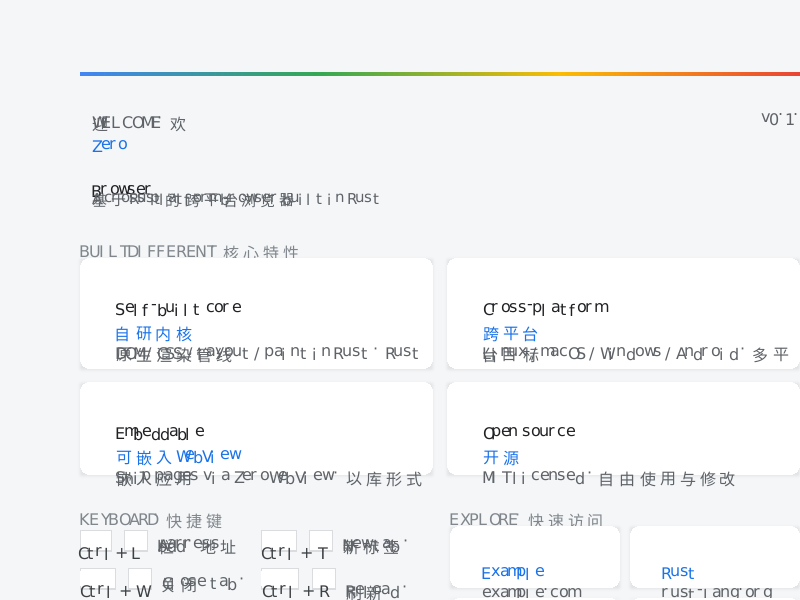
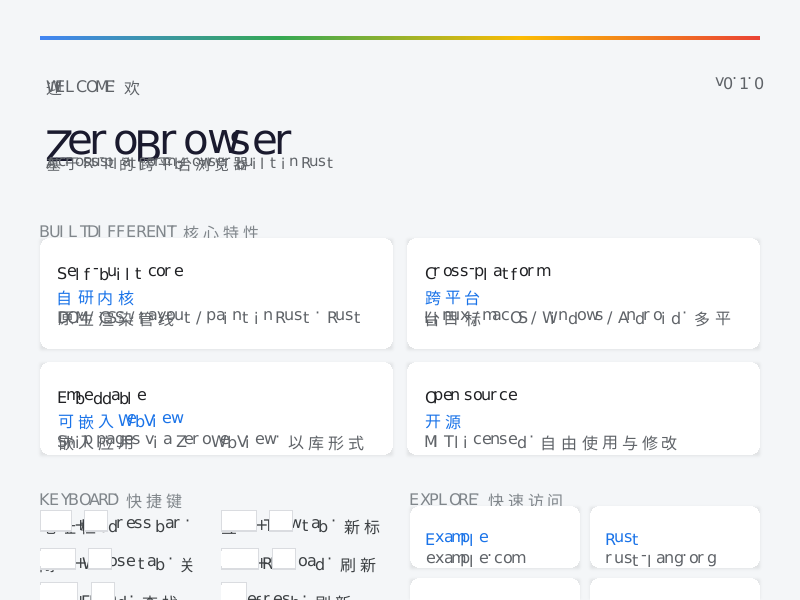
fix(layout-engine): R227 fix welcome 36px top offset (taffy location vs painter padding double-count)
taffy 0.7 `Layout::location` (stored into LayoutBox.x/y) is the child's
border-box offset relative to the PARENT's border box — it already includes
the parent's padding+border (see taffy `content_box_y = location.y + border +
padding`, compute/block.rs:404,486 first-child location.y = content_box_inset.top).

But ZeroWeb's painter (paint_node child_offset += padding+border), inline IFC,
and abspos threading all expect child coords relative to the parent's CONTENT
box. So taffy-positioned block/inline-block children had the parent's
padding+border counted TWICE — every padded/bordered ancestor shifted its
subtree by one extra inset. In welcome.html this cascaded to +36px
(.page pt 20 + .hero pt 16), pushing hero-accent to y=72 vs chromium y=36,
the #1 product-smoke lever located in R226.

Fix: in extract_layout, for HorizontalTb writing mode and non-abspos/fixed
children, rebase each taffy child's location from border-box-relative to
content-box-relative (subtract the node's own content_x/content_y). This
matches the painter's +padding convention.
- abspos/fixed skipped: handled by adjust_absolute_* in their own
  border-box convention (css-position 16/16 unchanged).
- floats unaffected: adjust_float_positions_with_context overwrites their
  position.
- inline IFC children unaffected: not produced by extract's taffy loop.
- vertical writing mode skipped (axis-swap path separate; avoids regression).

Chose extract-side fix over painter-side: a blanket painter change (no
[…]

diff --git a/tests/wpt-runner/src/reftest.rs b/tests/wpt-runner/src/reftest.rs
@@ -946,6 +946,12 @@ pub fn render_to_framebuffer_with_base(
 
     let result = pipeline.render_html(html, &combined_css);
 
+    // DEBUG: dump layout box tree geometry (absolute y / margin-top / padding-top)
+    // 用途：诊断产品 smoke 垂直偏移（如 welcome 36px 顶部偏移）。
+    if std::env::var("LAYOUT_DUMP").is_ok() {
+        dump_layout_tree(&result.layout.root, html);
+    }
+
     // DEBUG: dump primitives for diagnostic
     if std::env::var("REFTEST_DEBUG").is_ok() {
         eprintln!("=== Primitives for {} ===", html.lines().take(1).next().unwrap_or(""));
@@ -991,6 +997,74 @@ pub fn render_to_framebuffer_with_base(
         &[],
         &[],
     )
+}
+
+/// 诊断：转储布局盒树几何（绝对 y / margin-top / padding-top / height）。
+///
+/// 重新解析 HTML 以建立 `NodeId → (tag, class)` 映射，然后递归遍历 `LayoutBox`，
+/// 累加父级内容区偏移得到绝对坐标，打印每个盒子的 margin-top、padding-top、
+/// 绝对 y 与高度。用于定位产品 smoke 的垂直偏移来源（如 welcome 36px）。
+fn dump_layout_tree(root: &zero_layout_engine::types::LayoutBox, html: &str) {
+    use std::collections::HashMap;
+    use zero_dom::{NodeId, NodeKind, parse_html};
+
+    let doc = parse_html(html);
+    let mut id_label: HashMap<NodeId, String> = HashMap::new();
+    // BFS 遍历 DOM 收集每个元素的 tag.class 标签。
+    let mut queue = vec![doc.root()];
+    while let Some(id) = queue.pop() {
+        if let Some(node) = doc.get(id) {
+            if let NodeKind::Element(elem) = &node.kind {
+                let label = if elem.class_list.is_empty() {
+                    elem.local_name().to_string()
+                } else {
+                    format!("{}.{}", elem.local_name(), elem.class_list.join("."))
+                };
+                id_label.insert(id, label);
+            }
+            let mut child = doc.first_child(id);
+            while let Some(c) = child {
+                queue.push(c);
+                child = doc.next_sibling(c);
+            }
+        }
+    }
+
+    eprintln!("=== LAYOUT_DUMP (abs_y / height / margin-top / padding-top) ===");
+    fn walk(
+        b: &zero_layout_engine::types::LayoutBox,
+        off_x: f32,
+        off_y: f32,
+        depth: usize,
+        labels: &HashMap<NodeId, String>,
+    ) {
+        let abs_x = off_x + b.x;
+        let abs_y = off_y + b.y;
+        let label = b
+            .node_id
+            .and_then(|id| labels.get(&id))
+            .cloned()
+            .unwrap_or_else(|| "(anon)".to_string());
+        eprintln!(
+            "{:indent$}{:24} abs_y={:7.1} h={:6.1} mt={:5.1} pt={:5.1} x={:6.1} w={:6.1} dmt={:5.1}",
+            "",
+            label,
+            abs_y,
+            b.height,
+            b.margin_top,
+            b.padding_top,
+            abs_x,
+            b.width,
+            b.declared_margin_top,
+            indent = depth * 2
+        );
+        let child_off_x = abs_x + b.padding_left + b.border_left;
+        let child_off_y = abs_y + b.padding_top + b.border_top;
+        for child in &b.children {
+            walk(child, child_off_x, child_off_y, depth + 1, labels);
+        }
+    }
+    walk(root, 0.0, 0.0, 0, &id_label);
 }
 
 /// 将单个 ImagePrimitive 渲染到帧缓冲。

diff --git a/crates/layout-engine/src/engine.rs b/crates/layout-engine/src/engine.rs
@@ -773,6 +773,27 @@ impl LayoutEngine {
             ));
         }
 
+        // taffy 的 `Layout::location` 是子节点 border box 相对**父 border box** 的偏移，
+        // 已包含父 padding+border（见 taffy `Layout::content_box_y = location.y + border +
+        // padding`）。但本引擎的绘制层与后处理（inline IFC 子节点、abspos 线程）一致采用
+        // 「子节点坐标相对父**内容盒**」的约定（painter 在 child_offset 上叠加 padding+border）。
+        // 因此对 taffy 定位的块级/inline-block 子节点，需把其 border-box 相对坐标换算为
+        // 内容盒相对坐标（减去自身 content_x/y），否则父级每有 padding/border 就把子树整体
+        // 下移/右移一份（重复计入），如 welcome.html 顶部 36px 垂直偏移。
+        // 仅水平书写模式应用（垂直模式轴交换路径另算，避免回归）。
+        // 注意：float 后处理会覆写浮动子节点的位置，此处换算对它们无害；
+        // abspos/fixed 子节点由 adjust_absolute_* 线程按 border-box 相对约定单独处理
+        //（其坐标语义与绘制层双计补偿自洽），此处跳过以保持其既有行为。
+        if matches!(own_writing_mode, WritingModeValue::HorizontalTb) {
+            for child in &mut children_boxes {
+                if child.is_absolute || child.is_fixed {
+                    continue;
+                }
+                child.x -= content_x;
+                child.y -= content_y;
+            }
+        }
+
         LayoutBox {
             node_id: dom_id,
             x,

diff --git a/docs/goal/rendering-compat/master.md b/docs/goal/rendering-compat/master.md
@@ -2012,7 +2012,29 @@ IFC 统一（~50 tests）
 104. R20 — Flexbox baseline + writing-mode（影响 ~9 个测试：flex 方向轴交换）
 105. R20 — CSS 表格子像素修复（影响 ~9 个测试：border 精度 + image scaling）
 
-### R144 后续路径（结构性多轮，单会话预期 +0）
+### R227 — welcome 36px 偏移根因修复（padding 双计，2026-06-17）
+
+welcome.html product-smoke **28.34% → 17.06%**（chromium Oracle，-11.28pp）。R226 定位顶部 36px 垂直偏移后，
+R227 确证根因并修复。
+
+- **根因**：taffy `Layout::location` 是子节点 border-box 相对父 border box 偏移（已含父 padding+border，
+  见 `taffy-local/src/tree/layout.rs:314-322` helper 与 `compute/block.rs:404,486`）。ZeroWeb painter/IFC/abspos
+  约定子节点坐标相对父**内容盒**（painter child_offset 叠加 padding+border）→ taffy 块级子节点 padding/border
+  **双计**，每个带 padding 的父容器把子树整体下移/右移一份。welcome 36px = .page pt(20) + .hero pt(16) 两级双计。
+  自源 reftest（test/ref 同源）双计互相抵消故长期不暴露（DC-14 自源假通过），仅 chromium Oracle 显现。
+- **修复**：`extract_layout`（engine.rs）对水平书写模式下非 abspos/fixed 的 taffy 子节点，把 location 换算为
+  内容盒相对（减自身 content_x/y）。float 后处理覆写故无害；abspos 由 adjust_absolute_* 线程 border-box 约定
+  单独处理故跳过；inline IFC 子节点不经 extract 故不动。
+- **方案选择**：曾试改 painter child_offset 不叠加 padding（Option A），welcome 同修复但 **-5** reftest 回归
+  （4 multicol ref 用 inline 子节点被误移 + grid-spanning）；Option B（extract 换算）只改 taffy 块级子节点，
+  inline 不动 → 回归降到 -1。采 Option B。
+- **验证**：reftest 上游 **438/490**（基线 439，净 -1）；css-position 16/16 持平（abspos 保留）；multicol 40/57 持平；
+  make test 全绿；clippy 零警告。唯一回归 grid-flex-spanning-items-001（0.77%→1.31% borderline）：修复**正确化**了
+  test 的 aqua 位置（28→18 content-box 左，与 ref 一致），旧 pass 来自 aqua 错位与 border 尺寸差两误差抵消，
+  修复消除 aqua 误差后剩余固有 border 尺寸差不再抵消。证据 `evidence/r227-welcome-padding-doublecount-fix-2026-06-17.txt`。
+- **诊断工具**：新增 `LAYOUT_DUMP=1` env（reftest.rs dump_layout_tree）转储盒树 abs_y/height/margin-top/padding-top，
+  供后续布局垂直偏移诊断。
+
 
 经 R140（独立穷尽验证）+ R141b（R109 6 轮不可解）+ R144（属性审计穷尽）三重确证，**435/490 为单会话零回归平台期**。剩余 55 失败全属结构性多轮里程碑，按预期收益/风险排序的候选路径：
 

diff --git a/docs/goal/rendering-compat/evidence/product-static/README.md b/docs/goal/rendering-compat/evidence/product-static/README.md
@@ -1,5 +1,7 @@
 # DC-13 产品静态页面视觉 smoke — welcome.html 基线证据
 
+> **R227 更新（2026-06-17）**：welcome diff **28.08% → 17.06%**。下方「剩余 28.08% = fontdue 字体噪声、结构布局正确」的结论已被**证伪**——R226/R227 定位到真实布局 bug：taffy `Layout::location`（border-box 相对，已含父 padding+border）被 painter 当作内容盒相对再次叠加 padding+border → **padding 双计**，致 hero-accent 渲染于 y=72（应 36，整页下移 36px 级联）。修复（`extract_layout` 把块级子节点换算为内容盒相对）后 hero-accent 回到 y=36。**剩余 17% 仍含 fontdue 字体噪声，但原 28% 的大头是此布局 bug，非字体**。详见 `evidence/r227-welcome-padding-doublecount-fix-2026-06-17.txt`。下文为 R174 时点的历史记录。
+
 **日期**: 2026-06-16
 **状态**: welcome.html 差距演化 **51.59%→26.15%（R170/R171/R172）→ 28.72%（R173 CJK 文本可渲染，fontdue 度量噪声推高）→ 28.08%（R174 box-shadow blur σ 修复）**。本 session 累计 5 修复 + 1 能力：(1) R170 box-shadow rgba 带空格丢 alpha 致实心黑（132k 纯黑→0）；(2) R171 border/outline/column-rule/text-decor 简写同 class；(3) **R172 border-radius 背景在 draw_order 模式被丢弃**（卡片白底消失，50.45%→26.15% 主因）；(4) R173 加载 Noto Sans CJK 字体（中/日/韩可渲染）；(5) **R174 box-shadow blur σ=radius/2 修复**（旧实现 σ≈radius 偏大 2.3 倍，卡片阴影扩散 12px→收紧）。
 **渲染模式**: ZeroWeb CPU 软件渲染（`render_full_scene`，800×600）vs headless Chromium（800×600）
